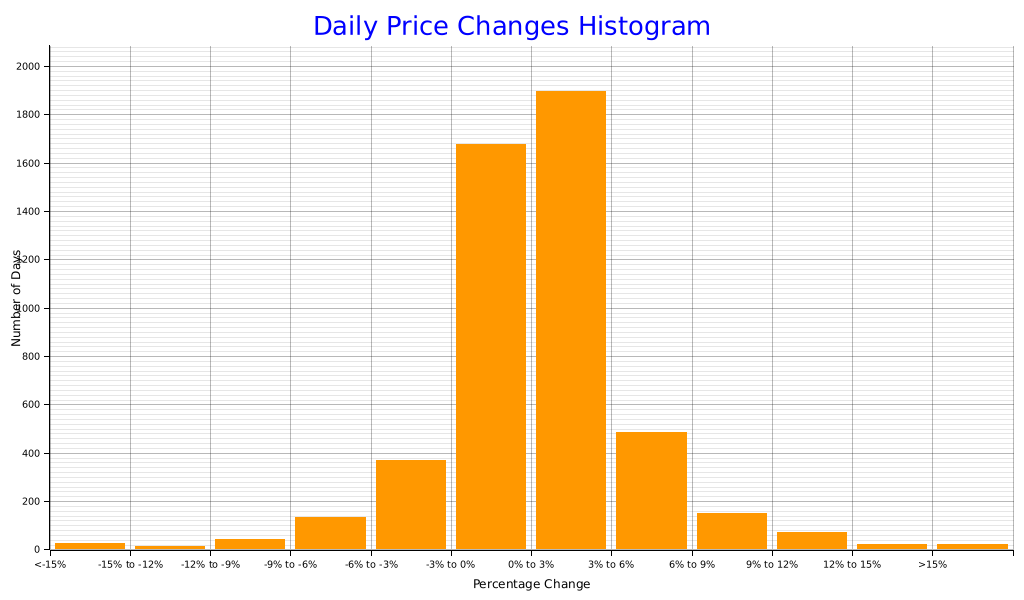
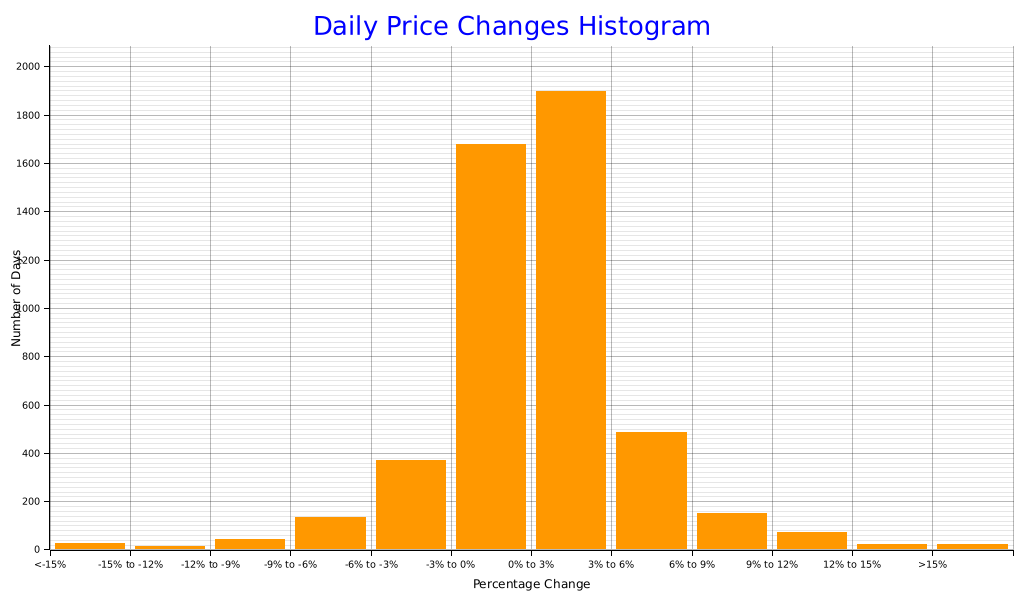
deploy: 32c38bfc33973f71076a7465fb8cd65e6d188ef2

diff --git a/index.html b/index.html
@@ -172,7 +172,7 @@
         </tr>
         <tr>
           <td>0% to 3%</td>
-          <td>1895</td>
+          <td>1896</td>
         </tr>
         <tr>
           <td>3% to 6%</td>
@@ -196,7 +196,7 @@
         </tr>
         <tr class='histogram-footer'>
           <td>Total Days</td>
-          <td>4911</td>
+          <td>4912</td>
         </tr>
       </tbody>
     </table>
@@ -223,14 +223,26 @@
           <tr>
             <td>2025-05-21</td>
             <td>106,853.82</td>
-            <td>107,703.21</td>
+            <td>107,910.03</td>
             <td>106,259.47</td>
-            <td>107,555.09</td>
-            <td class='wma-column'>47,385.50</td>
-            <td>55.53 (0.11 %)</td>
-            <td>77,747.75 (260.8 %)</td>
-            <td>1,443.73 (1.3 %)</td>
-            <td>1,948.91 (1.8 %)</td>
+            <td>107,910.03</td>
+            <td class='wma-column'>47,439.10</td>
+            <td>54.14 (0.11 %)</td>
+            <td>75,799.33 (236.0 %)</td>
+            <td>1,650.55 (1.5 %)</td>
+            <td>1,118.94 (1.0 %)</td>
+          </tr>
+          <tr>
+            <td>2025-05-20</td>
+            <td>105,605.40</td>
+            <td>107,307.11</td>
+            <td>104,206.51</td>
+            <td>106,791.08</td>
+            <td class='wma-column'>47,384.96</td>
+            <td>54.99 (0.11 %)</td>
+            <td>76,983.73 (258.2 %)</td>
+            <td>3,100.60 (2.9 %)</td>
+            <td>1,184.90 (1.1 %)</td>
           </tr>
           <tr>
             <td>2025-05-19</td>
